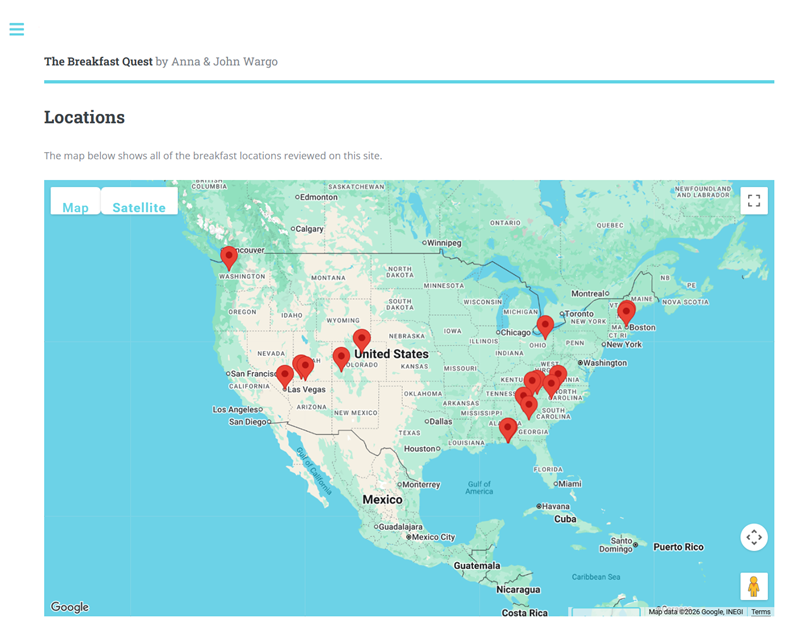
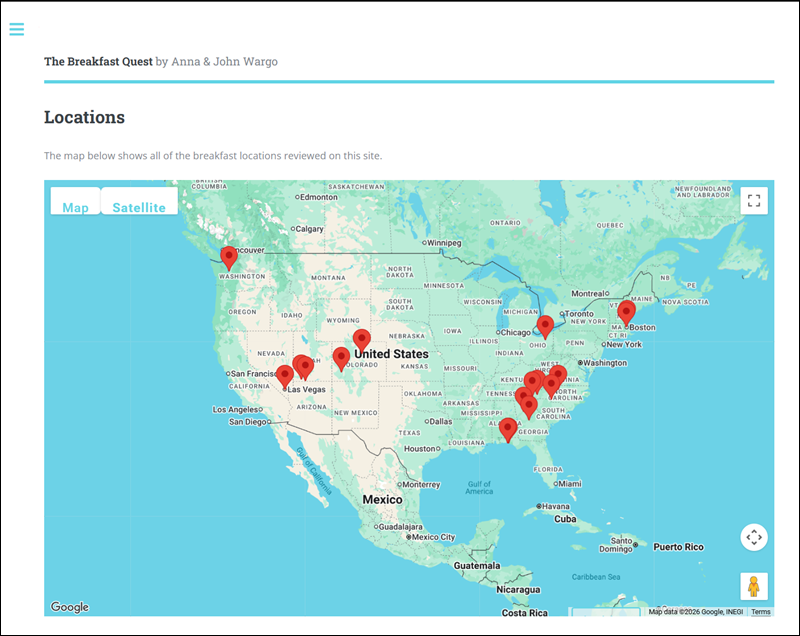
added maps post

Changed region(s): [[0.0, 0.9858, 1.0, 1.0], [0.0, 0.0, 1.0, 0.0299]]

diff --git a/src/posts/2026/eleventy-google-maps-markers.md b/src/posts/2026/eleventy-google-maps-markers.md
@@ -1,0 +1,225 @@
+---
+title: Eleventy Adding Google Maps with Markers
+description: Shows how to add Google Maps to an Eleventy site page with a set of markers showing specific locations.
+date: 2026-09-19
+timestamp: 2026-09-19T17:16:27.477Z
+showCoffee: true
+headerImage: 
+headerImageAltText: 
+headerImageAttribution: 
+categories:
+  - Eleventy
+---
+
+When I started building out the [Breakfast Quest](https://thebreakfastquest.com/){target="_blank"} site, one of the features I wanted on the site was a map showing all of the reviewed breakfast locations; this post shows how I did it. You can see the resulting map on the Breakfast Quest site's [locations](https://thebreakfastquest.com/locations/){target="_blank"} page.
+
+![Breakfast Quest Locations Page](/images/2026/breakfast-quest-locations.png)
+
+The first thing I did was look at Google Maps as an option, I wanted to use something free and something that would work in any the browser. Google offers developers a [Maps Platform](https://developers.google.com/maps){target="_blank"} that delivers a variety of options. In my case, I wanted to be able to display markers (one for each restaurant reviewed on the site), so I selected the API-based approach. 
+
+{% sidebar "Google Maps API Key Required" %}
+To use this API, you must first create a Google Cloud API key you'll embed in your app. For security purposes, you can limit map API access to a specific source domain; this keeps others from using your API key for their maps (and running up API charges in your Google Cloud account). 
+{% endsidebar %}
+
+## Embedding the Map on the Page
+
+Embedding the map on the site's Locations page was easy, all I had to do was create a `<div>` on the page with a specific dimensions for the rendered map:
+
+```html
+<div id="map" style="height: 640px; width: 100%;"></div>
+```
+
+Next, I loaded the Maps JavaScript API:
+
+```html
+<script src="https://maps.googleapis.com/maps/api/js?key=AIzaSyBUKy-E5t6hf9e-3Lh1t3vP6kCHE-cxewI&libraries=maps&loading=async&callback=initMap" async defer></script>
+```
+
+And, finally, I loaded the JavaScript code I wrote to initialize the map and display the markers (described in the following sections):
+
+```html
+<script src="/assets/js/maps.js"></script>
+```
+
+Here's the complete content from the site's [locations](https://github.com/johnwargo/the-breakfast-quest-11ty/blob/main/src/locations.liquid){target="_blank"} page:
+
+```markdown
+---
+layout: generic
+title: Locations
+eleventyNavigation:
+  key: Locations
+  order: 3
+idxIgnore: true
+---
+
+Use the map to find a breakfast restaurant by location; click on a pin/marker to view details for the selected restaurant.
+<div id="map" style="height: 640px; width: 100%;"></div>
+<script src="/assets/js/maps.js"></script>
+<script src="https://maps.googleapis.com/maps/api/js?key=AIzaSyBUKy-E5t6hf9e-3Lh1t3vP6kCHE-cxewI&libraries=maps&loading=async&callback=initMap" async defer></script>
+```
+
+## Initializing the Map
+
+Initializing the map is easy; I created a JavaScript file called `maps.js` and added it to the project's `src/assets/js/` folder. In the file, I created created an `initMap` function that creates a `map` object and points it to the `div` with the `id` of `map` I already added to the locations page.
+
+```js
+function initMap() {
+	console.log('Initialized maps');
+
+	const map = new google.maps.Map(document.getElementById("map"), {
+		zoom: 4,
+		center: { lat: 41.0812, lng: -81.5188 },
+	});
+}
+```
+
+I didn't want to use the map's default position and zoom level, so when the code initializes the map, it sets the zoom level I wanted then centered the map on the middle of the United States (recognizing that most locations I review on the site will be in the US).
+
+How is the `initMap` function executed? When I loaded the Maps JavaScript library, I passed a `callback` parameter that identified the function to call after the library successfully loads: `callback=initMap`.
+
+## Generating the Markers File
+
+The Google Maps API supports a variety of options for loading markers onto a map. I could have hard-coded a data file in the app or I could have built the marker list using JavaScript code. Since I was working with an Eleventy site and Eleventy is so good with working with data files, I decided to generate the marker list dynamically during the build process. 
+
+To do this, I started by adding `longitude` and `latitude` properties to the frontmatter of my restaurant review posts. This allowed me to keep all restaurant review data together in one place and kept me from having to maintain a separate data file for just the location data. Here's an example:
+
+```yaml
+---
+title: Michael's AM
+description: My go to breakfast place in my home town. This is probably where I was introduced to Country Fried Steak.
+date: 2024-01-02
+timestamp: 2024-01-02T12:00:50.976Z
+author: John
+isLocation: true
+visitDate: 2024-01-02
+rating: 
+website: https://michaelsam.net/
+menu: https://michaelsam.net/menu/
+address: 1562 Akron Peninsula Rd, Akron, OH 44313
+city: Akron
+state: Ohio
+latitude: 41.1373697
+longitude: -81.54848129999999
+categories: 
+---
+```
+
+Now that I had a database of location data (longitude and latitude values), all I had to do was get that data into a format that the Google Maps API could load. One of the available options is the [GeoJSON](http://geojson.org/){target="_blank"} file format.  
+
+The GeoJSON file defines a collection of `Features` and each feature defines a geometry type. For my purposes, I use it to define points.  I'm not going to go into the details for how to represent the data, instead here's an example from the site.
+
+```json
+{
+  "type": "FeatureCollection",
+  "features": [    
+    {
+      "type": "Feature",
+      "geometry": {
+        "type": "Point",
+        "coordinates": [
+          -80.72928069999999,
+          35.1256891
+        ]
+      },
+      "properties": {
+        "name": "East 74 Family Restaurant",
+        "description": "I like East 74 Family Restaurant because it’s a reliable, comfortable spot for simple breakfast food. The restaurant has a steady mix of regulars, police officers, workers, and other locals, and it has a welcoming, neighborhood feel. The food is consistently good and reasonably priced, with my go-to being the country fried steak.  Overall, it’s a dependable breakfast place that I keep coming back to.",
+        "url": "/posts/2025/east-74/"
+      }
+    },    
+    {
+      "type": "Feature",
+      "geometry": {
+        "type": "Point",
+        "coordinates": [
+          -81.54848129999999,
+          41.1373697
+        ]
+      },
+      "properties": {
+        "name": "Michael's AM",
+        "description": "My go to breakfast place in my home town. This is probably where I was introduced to Country Fried Steak.",
+        "url": "/posts/2024/michael-am/"
+      }
+    }
+  ]
+}
+```
+
+To make this work, what I had to do was generate this file and store it somewhere so the locations page could retrieve it and load it in the map. 
+
+Now, you're probably thinking that the solution is to create an Eleventy Global data file for this, but for a variety of reasons this wasn't possible. The most important one is that if I made a JavaScript global data file, it wouldn't be able to process the posts in the site. Now, I could have brute force scanned the file system for posts, which I'd done for my [Eleventy Post Statistics](https://github.com/johnwargo/eleventy-plugin-post-stats){target="_blank"} plugin, but I didn't want to do that here. 
+
+Instead, I created an Eleventy plugin that generated the data file (writing it manually to the site's files) under the covers of an empty/hidden collection. By creating a collection, my code has access to the `collection` API and can access anything in the site during the build process. Once it writes the file, the plugin returns an empty collection which is not used anywhere in the site. 
+
+I'm not going to spend any time showing and describing the plugin code, this post is long enough already. You can study the code yourself [here](https://github.com/johnwargo/the-breakfast-quest-11ty/blob/main/.eleventy.locations.js){target="_blank"}. Just trust me that the plugin, when executed, creates a GeoJSON file like the example shown above in the site's `/api/locations.json` file (which is not in the repository, but generated every time the site builds).
+
+## Loading the Markers in the Map
+
+Alright, now that I had the `locations.json` file, all I had to do was load it into the map at runtime. To do this, I had to make a few changes to the `initMap` function I showed you earlier.
+
+The first thing to do is load the data from the file I just generated; that's pretty easy, here's the code:
+
+```js
+const locationData = '/api/locations.json';
+
+console.log('Fetching location data from:', locationData);
+map.data.loadGeoJson(locationData);
+```
+
+This loads the data from the file and adds markers to the map for every point described in the file. So easy!
+
+Now, if that's all I wanted to do with the markers, I'd be done. But, of course, I wanted to do more. 
+
+I wanted to extend the map to show all the markers on the map. To do that, I added the following listener to the `initMap` function:
+
+```js
+var bounds = new google.maps.LatLngBounds();
+map.data.addListener('addfeature', function (evt) {
+  if (evt.feature.getGeometry().getType() == 'Point') {
+    bounds.extend(evt.feature.getGeometry().get());
+    map.fitBounds(bounds);
+  }
+})
+```
+
+Every time `loadGeoJson` loads a feature, the map adjusts to include it in the view. This probably isn't very efficient, but it works.
+
+Since I wanted visitors to be able to hover over a marker to view information about the location, I first had to define an info window that appears when they hover:
+
+```js
+var infowindow = new google.maps.InfoWindow({
+  pixelOffset: new google.maps.Size(0, -40)
+});
+```
+
+Then add the event listener that creates the info window and populates it with content about the location when the user hovers:
+
+```js
+map.data.addListener('mouseover', function (evt) {
+  const featureName = evt.feature.getProperty('name');
+  const description = evt.feature.getProperty('description');
+  if (description) {
+    infowindow.setContent(`<div style="padding:5px;"><strong>${featureName}</strong><br>${description}</div>`);
+  } else {
+    infowindow.setContent(`<div style="padding:5px;"><strong>${featureName}</strong></div>`);
+  }
+  infowindow.setPosition(evt.feature.getGeometry().get());
+  infowindow.open(map);
+});
+```
+
+Finally, I wanted users to be able to open the review when clicking on a marker, so I added a `click` listener that opens the related page when the user clicks on a marker:
+
+```js
+map.data.addListener('click', function (event) {
+  const url = event.feature.getProperty('url');
+  if (url) {	// this should always be true
+    // open the website in a new tab
+    window.open(url, '_blank');
+  }
+});
+```
+
+You can view the complete source code for this in the site's [`maps.js`](https://github.com/johnwargo/the-breakfast-quest-11ty/blob/main/src/assets/js/maps.js){target="_blank"} file.
